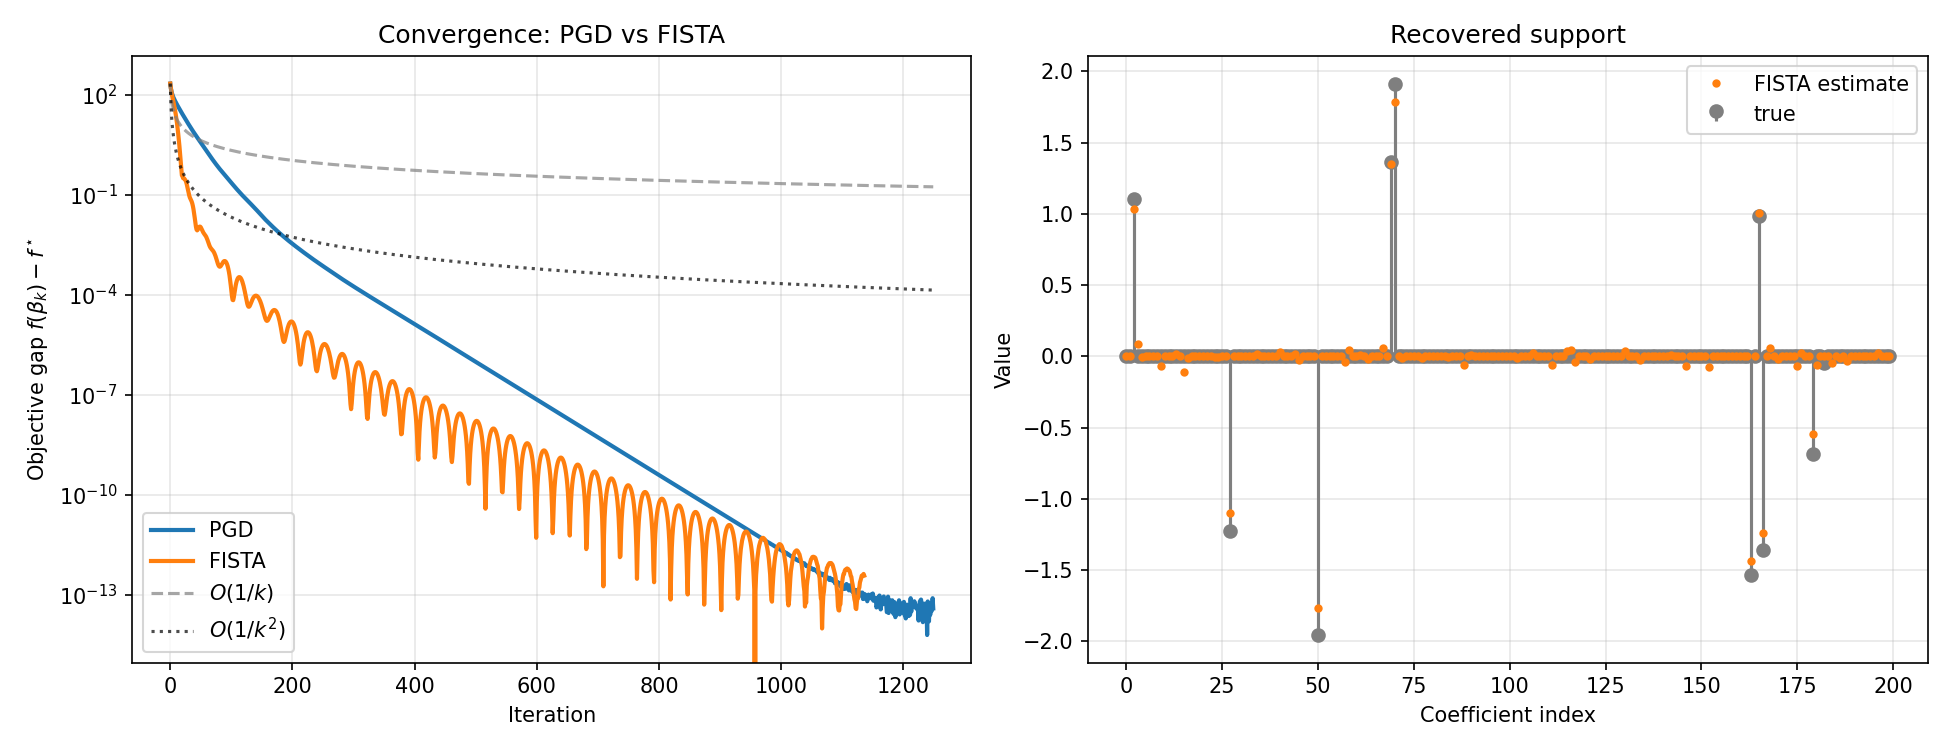
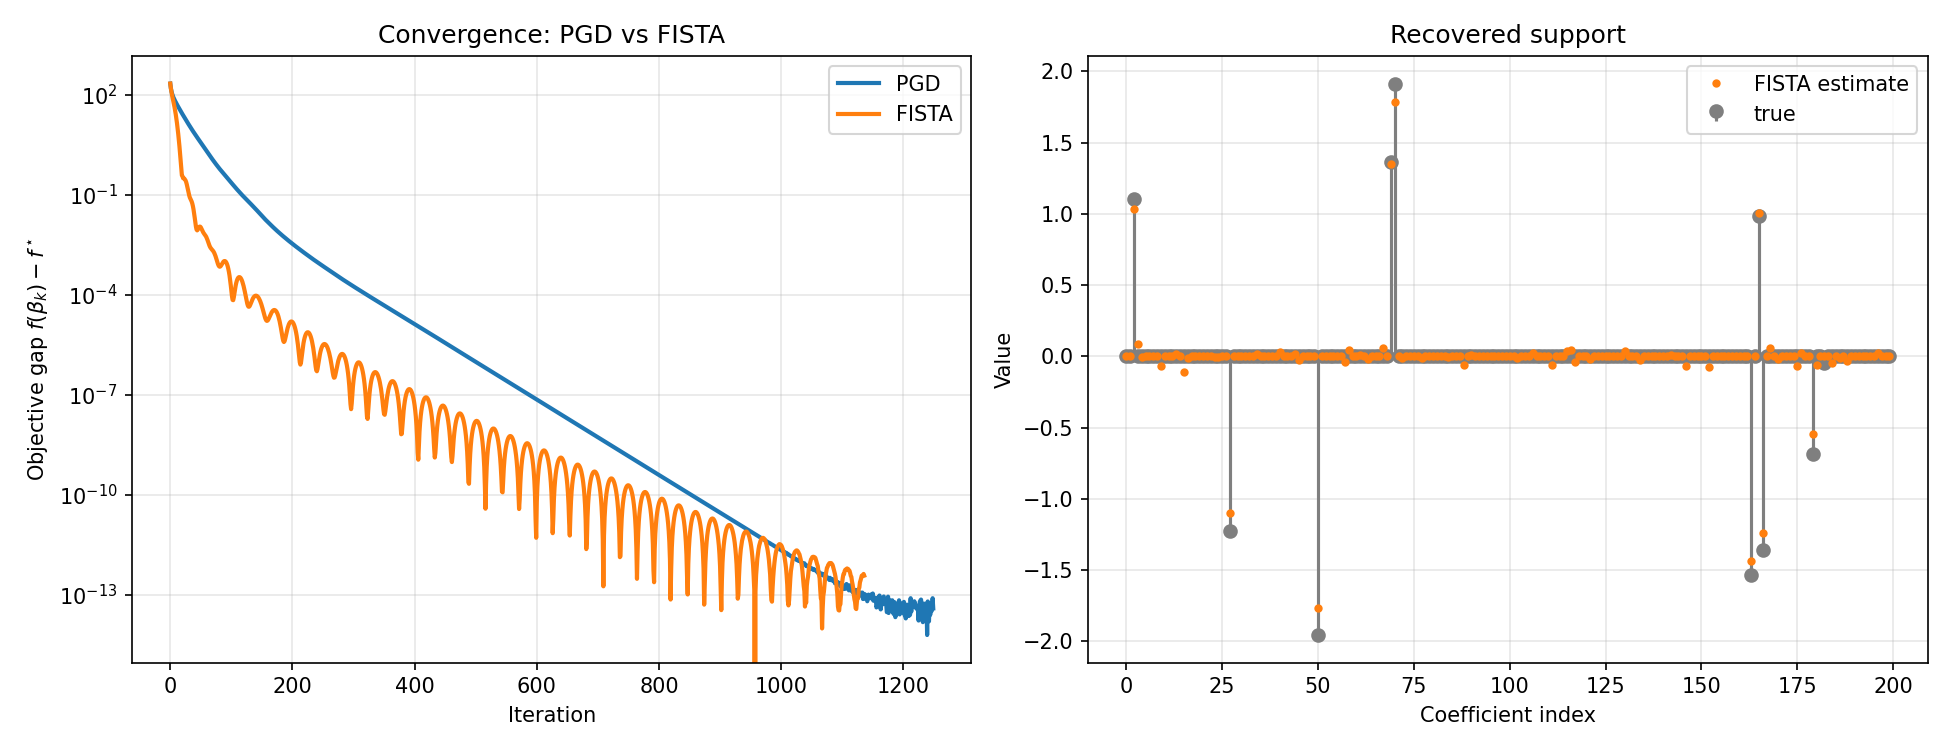
Drop misleading rate guides from convergence plot

diff --git a/scripts/benchmark.py b/scripts/benchmark.py
@@ -57,9 +57,6 @@ def main() -> None:
     ax = axes[0]
     ax.semilogy(gap_pgd, label="PGD", linewidth=2)
     ax.semilogy(gap_fista, label="FISTA", linewidth=2)
-    kk = np.arange(1, len(gap_pgd) + 1)
-    ax.semilogy(gap_pgd[0] / kk, "--", color="gray", alpha=0.7, label=r"$O(1/k)$")
-    ax.semilogy(gap_fista[0] / kk**2, ":", color="black", alpha=0.7, label=r"$O(1/k^2)$")
     ax.set_xlabel("Iteration")
     ax.set_ylabel(r"Objective gap $f(\beta_k) - f^\star$")
     ax.set_title("Convergence: PGD vs FISTA")

diff --git a/README.md b/README.md
@@ -93,8 +93,9 @@ iterations.
 
 ![Benchmark](outputs/benchmark.png)
 
-*Left:* objective gap $f(\beta_k) - f^\star$ on a log scale, with the theoretical
-$O(1/k)$ and $O(1/k^2)$ guides. *Right:* the FISTA estimate against the true coefficients.
+*Left:* objective gap $f(\beta_k) - f^\star$ on a log scale — FISTA reaches a given
+accuracy in markedly fewer iterations. *Right:* the FISTA estimate against the true
+coefficients.
 
 ## Validation
 